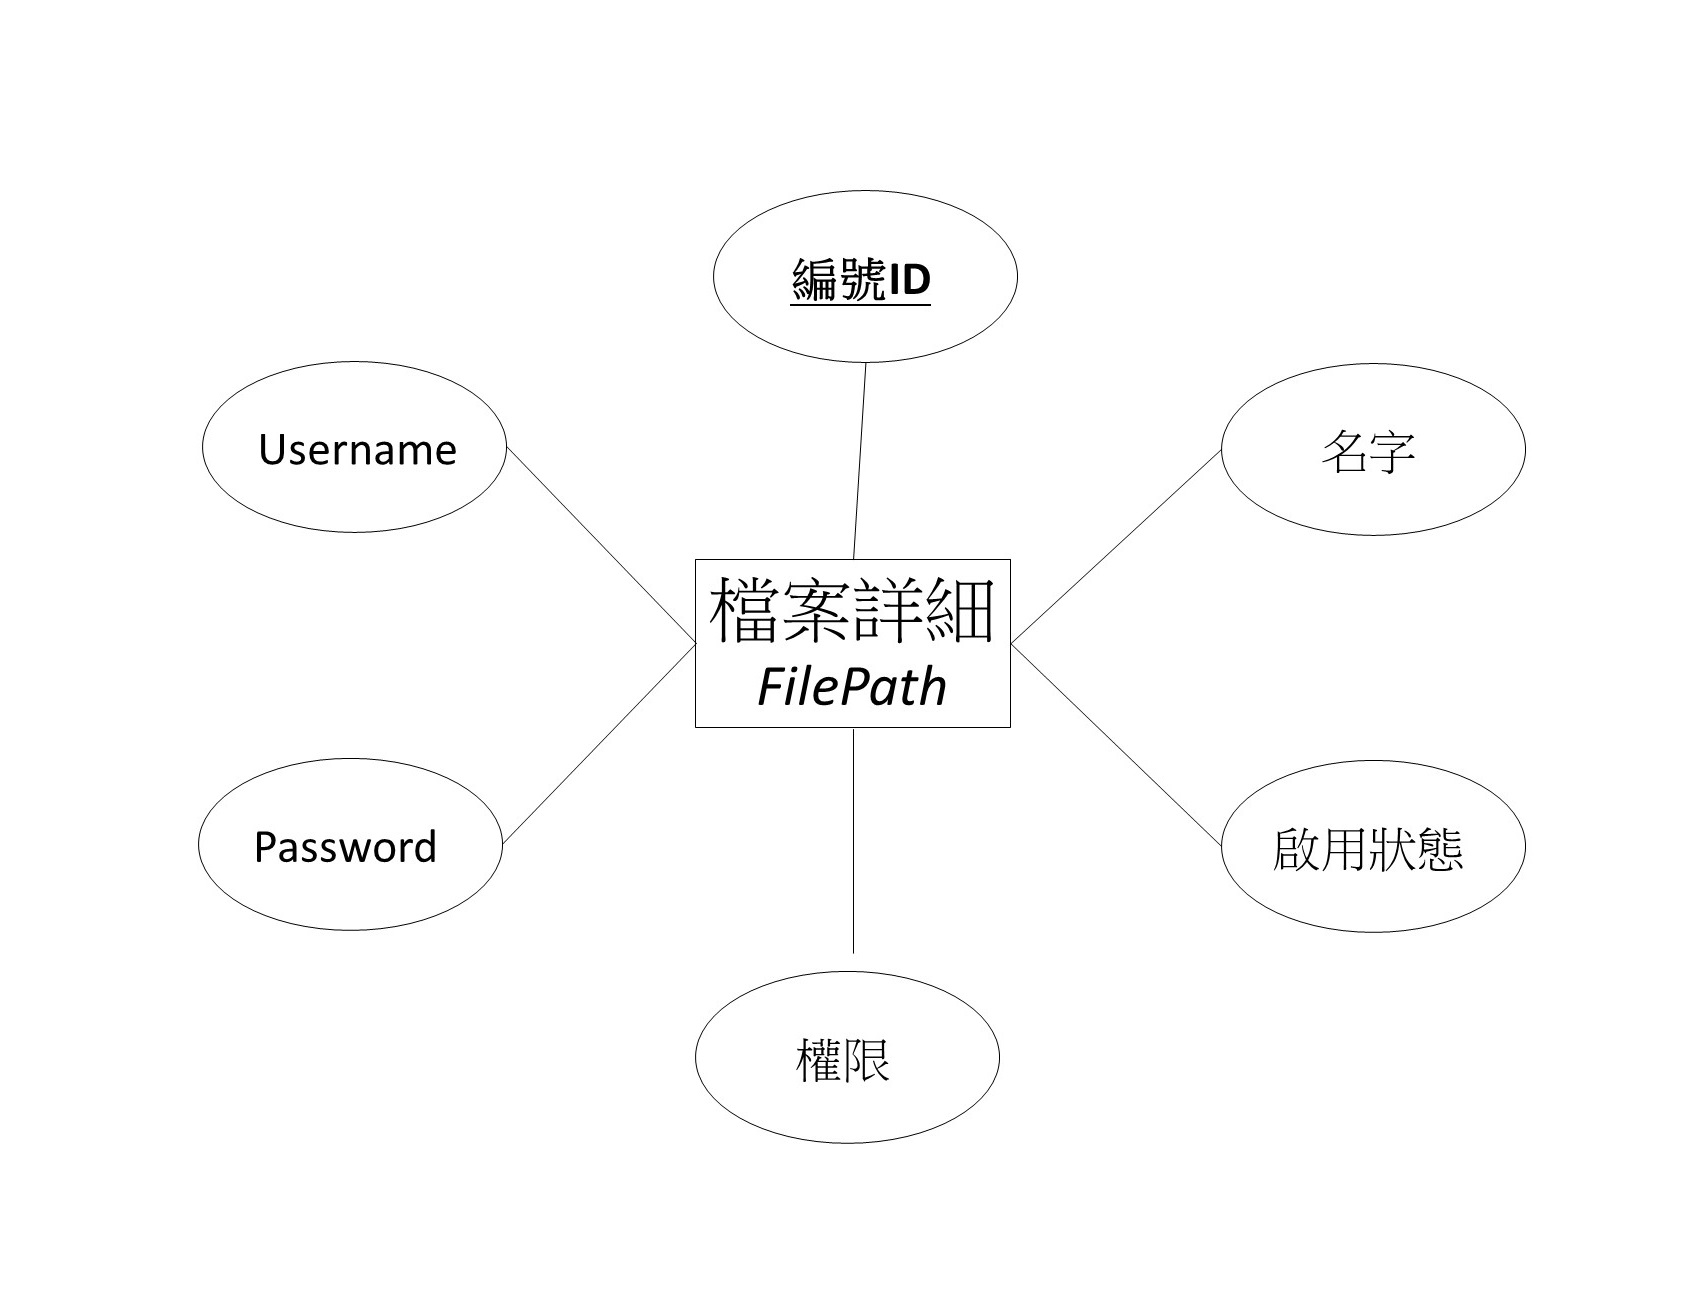
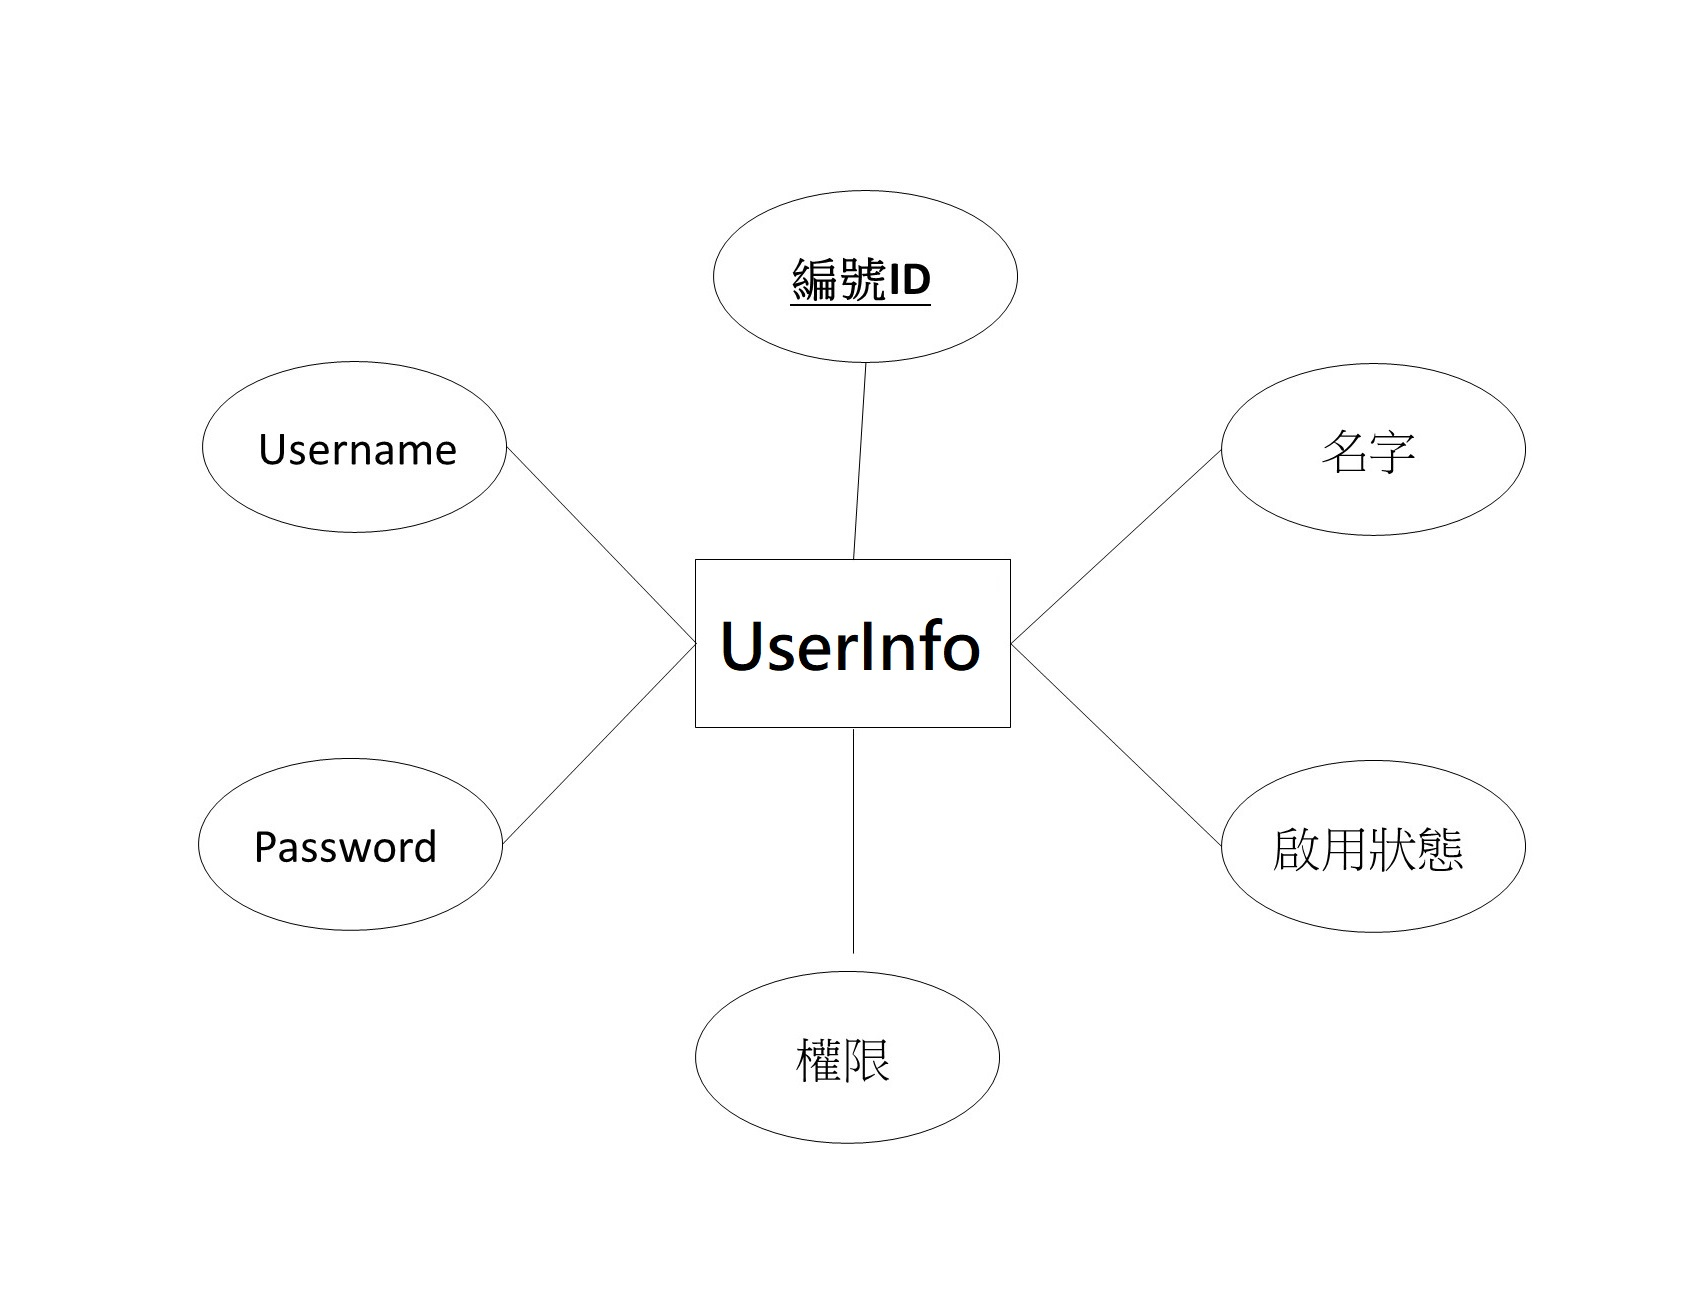
Small Edit

Changed region(s): [[0.4062, 0.4308, 0.5938, 0.5538]]

diff --git a/src/main/java/App/AppStarter.java b/src/main/java/App/AppStarter.java
@@ -21,8 +21,8 @@ import java.util.Objects;
 import java.util.Scanner;
 import java.util.concurrent.locks.ReentrantLock;
 
-import static App.Init.Init.StartMode;
-import static App.Init.Init.StartMode.*;
+import static App.Init.InitHibernateParam.StartMode;
+import static App.Init.InitHibernateParam.StartMode.*;
 
 @SpringBootApplication(scanBasePackages = {"Web.*", "App.*", "Data.Criteria"})
 @EntityScan(basePackages = {"Data.Entity"})
@@ -43,7 +43,8 @@ public class AppStarter {
 
     public static void main(String[] args) throws Exception {
         desktop = Desktop.getDesktop();
-        System.setProperty("spring.config.additional-location", "optional:file:scanSet.yml");
+//        Outer Setting is optional,If not set use classpath:application.yml
+        System.setProperty("spring.config.additional-location", "optional:file:Setting.yml");
         controlSystem(SystemOpt.RESTART);
         HumanPanelStart();
     }

diff --git a/src/main/java/App/Init/BeanSetter.java b/src/main/java/App/Init/BeanSetter.java
@@ -1,6 +1,5 @@
 package App.Init;
 
-import App.AppStarter;
 import Bean.PathProvider;
 import Worker.FileExploreWorker;
 import Worker.FileSaverWorker;
@@ -11,11 +10,10 @@ import org.springframework.context.annotation.Configuration;
 import org.springframework.context.annotation.Primary;
 import org.springframework.core.annotation.Order;
 
-import javax.annotation.PostConstruct;
 import java.io.FileNotFoundException;
 import java.util.*;
 
-import static App.Init.Init.*;
+import static App.Init.InitHibernateParam.*;
 
 @Configuration
 public class BeanSetter {
@@ -56,8 +54,8 @@ public class BeanSetter {
     }
 
     @Bean
-    public Init getInit() {
-        return new Init((StartMode) getStartMode().get("rescan"));
+    public InitHibernateParam getInit() {
+        return new InitHibernateParam((StartMode) getStartMode().get("rescan"));
     }
 
     @Bean

diff --git a/src/main/java/App/Init/InitWeb.java b/src/main/java/App/Init/InitWeb.java
@@ -32,16 +32,13 @@ public class InitWeb {
         return new WebMvcConfigurer(){
             @Override
             public void addCorsMappings(CorsRegistry registry) {
-//                registry.addMapping("/**")
-//                        .allowedOrigins("http://127.0.0.1:5500/")
-//                        .allowCredentials(true)
-//                        .allowedMethods("GET", "POST", "PUT", "DELETE")
-//                        .allowedHeaders("/*")
-//                ;
             }
         };
     }
 
+    /**
+     * Add Authentication UserInfo to request param.
+     */
     @Bean
     public Filter setAuthenticationFilter(){
         return new OncePerRequestFilter() {

diff --git a/src/main/java/App/Init/InitHibernateParam.java b/src/main/java/App/Init/InitHibernateParam.java
@@ -16,11 +16,11 @@ import org.springframework.transaction.annotation.SpringTransactionAnnotationPar
 
 @NoArgsConstructor
 @Order(2)
-public class Init implements ApplicationListener<ContextRefreshedEvent>, MetadataBuilderContributor {
+public class InitHibernateParam implements ApplicationListener<ContextRefreshedEvent>, MetadataBuilderContributor {
 
     private StartMode startMode;
 
-    public Init(StartMode startMode) {
+    public InitHibernateParam(StartMode startMode) {
         this.startMode = startMode;
     }
 
